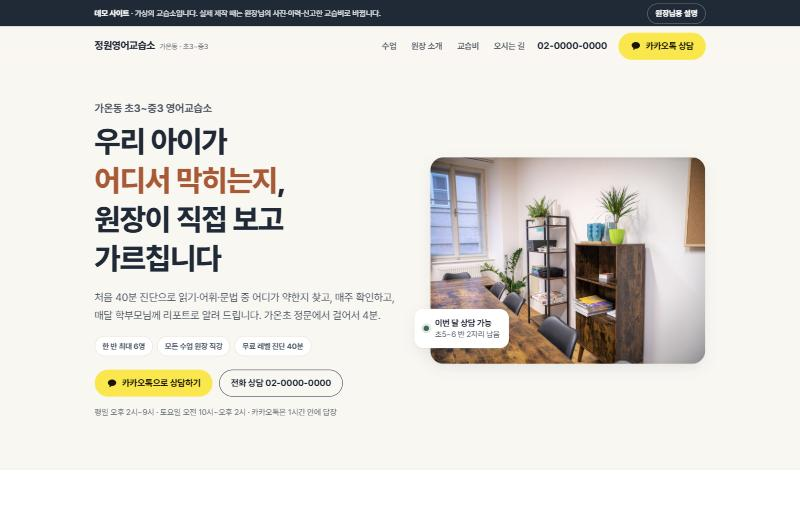
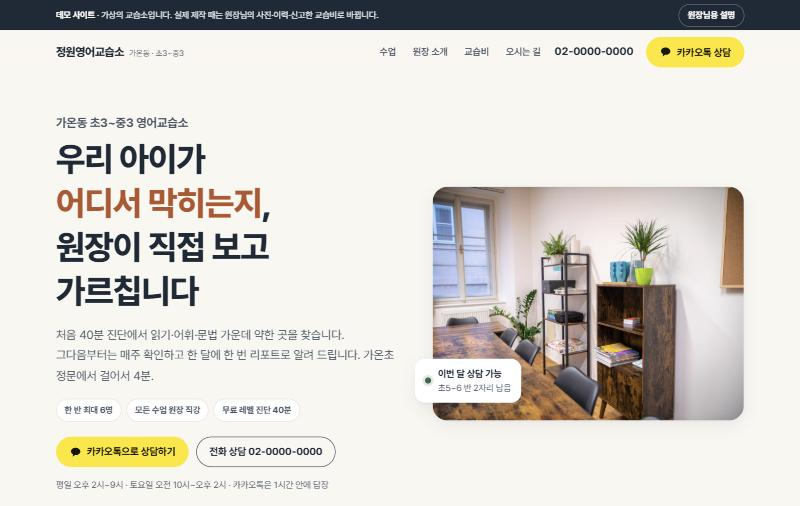
사진 교체(밝은 교실·원서 책장) · 교습소 원칙 세 가지와 맞는 학생 안내 추가 · 월간 리포트 세 줄 구성 · 문구 다듬기 · 화면 갱신
Claude-Session: https://claude.ai/code/session_01XySkmyWqQhuTdWRt7pSBQn

diff --git a/index.html b/index.html
@@ -173,8 +173,25 @@ body.owner .owner-panel{display:block}
 .bar .track{height:10px;background:var(--navy-soft);border-radius:99px;overflow:hidden}
 .bar .fill{display:block;height:100%;background:var(--ink);border-radius:99px}
 .bar .fill.a{background:var(--accent)}
-.report .memo{background:var(--paper);border-radius:var(--r-s);padding:.9rem 1rem;font-size:.93rem;color:var(--ink-2)}
-.report .memo b{color:var(--ink)}
+.report .memo{display:grid;grid-template-columns:auto 1fr;gap:.4rem .9rem;margin:0;background:var(--paper);border-radius:var(--r-s);padding:.9rem 1rem;font-size:.93rem;color:var(--ink-2)}
+.report .memo dt{font-weight:700;color:var(--ink);white-space:nowrap}
+.report .memo dd{margin:0}
+
+/* 지키는 것 · 맞는 학생 */
+.values-list{list-style:none;margin:0;padding:0;display:grid;gap:clamp(14px,2vw,20px);counter-reset:v}
+@media (min-width:860px){.values-list{grid-template-columns:repeat(3,1fr)}}
+.values-list li{background:var(--card);border:1px solid var(--line);border-radius:var(--r);padding:clamp(20px,3vw,26px);counter-increment:v}
+.values-list li::before{content:counter(v);display:grid;place-items:center;width:2rem;height:2rem;border-radius:50%;background:var(--accent-soft);color:var(--accent-strong);font-weight:800;margin-bottom:.7rem}
+.values-list b{display:block;font-size:1.08rem;margin-bottom:.4rem}
+.values-list span{display:block;color:var(--ink-2);font-size:.95rem}
+.values-list .cost{margin-top:.7rem;font-size:.88rem;font-weight:700;color:var(--accent-strong)}
+.fit-grid{display:grid;gap:clamp(14px,2vw,20px);margin-top:clamp(20px,3vw,28px)}
+@media (min-width:860px){.fit-grid{grid-template-columns:1fr 1fr}}
+.fit-box{border-radius:var(--r);padding:clamp(20px,3vw,26px)}
+.fit-box.yes{background:#E3F1EA}
+.fit-box.no{background:var(--paper-2);border:1px solid var(--line)}
+.fit-box h3{font-size:1.05rem;margin-bottom:.6rem}
+.fit-box ul{margin:0;padding-left:1.1rem;display:grid;gap:.35rem;color:var(--ink-2);font-size:.95rem}
 
 /* 공간 */
 .space-grid{display:grid;gap:clamp(12px,2vw,18px)}
@@ -326,6 +343,7 @@ body.owner .owner-off{display:inline-flex;align-items:center}
       <li>반별 요일·시간과 이번 달 모집 현황</li>
       <li>카카오톡 채널 주소, 전화번호, 네이버 플레이스 주소</li>
       <li>자주 받는 질문 5개와 답</li>
+      <li>손해를 보더라도 지키는 원칙 세 가지, 맞는 학생과 맞지 않는 경우 (첫 상담 때 다섯 가지를 여쭙고 정합니다)</li>
     </ol>
     <p>아래 점선으로 표시된 곳이 원장님 자료로 바뀝니다.</p>
   </div>
@@ -348,7 +366,7 @@ body.owner .owner-off{display:inline-flex;align-items:center}
   <div class="wrap">
     <div>
       <h1 id="hero-title"><span class="kicker">가온동 초3~중3 영어교습소</span>우리 아이가 <em>어디서 막히는지</em>,<br>원장이 직접 보고 가르칩니다</h1>
-      <p class="lead">처음 40분 진단으로 읽기·어휘·문법 중 어디가 약한지 찾고, 매주 확인하고, 매달 학부모님께 리포트로 알려 드립니다. 가온초 정문에서 걸어서 4분.</p>
+      <p class="lead">처음 40분 진단에서 읽기·어휘·문법 가운데 약한 곳을 찾습니다. 그다음부터는 매주 확인하고 한 달에 한 번 리포트로 알려 드립니다. 가온초 정문에서 걸어서 4분.</p>
       <ul class="hero-meta" aria-label="교습소 요약">
         <li>한 반 최대 6명</li><li>모든 수업 원장 직강</li><li>무료 레벨 진단 40분</li>
       </ul>
@@ -373,23 +391,23 @@ body.owner .owner-off{display:inline-flex;align-items:center}
   <div class="wrap">
     <div class="sec-head">
       <p class="eyebrow">이렇게 가르칩니다</p>
-      <h2 id="proof-title">진단하고, 매주 확인하고, 매달 알려 드립니다</h2>
+      <h2 id="proof-title">진단부터 월간 리포트까지 원장이 직접 합니다</h2>
     </div>
     <div class="steps">
       <article class="step">
-        <p class="k">STEP 1 · 진단</p>
+        <p class="k">처음 · 진단</p>
         <h3>40분 레벨 진단으로 시작</h3>
-        <p>읽기·어휘·문법 세 영역을 따로 봅니다. 점수 하나가 아니라 어디서 막히는지를 찾습니다.</p>
-        <ul><li>진단 결과지를 상담 때 함께 봅니다</li><li>결과에 맞는 반을 제안하고, 맞는 반이 없으면 솔직하게 말씀드립니다</li></ul>
+        <p>읽기·어휘·문법 세 영역을 따로 봅니다. 점수 하나로 끝내지 않고 어디서 막히는지 찾습니다.</p>
+        <ul><li>진단 결과지를 상담 때 함께 봅니다</li><li>결과에 맞는 반을 제안합니다. 맞는 반이 없으면 그렇다고 말씀드립니다</li></ul>
       </article>
       <article class="step">
-        <p class="k">STEP 2 · 매주 확인</p>
+        <p class="k">매주 · 확인</p>
         <h3>숙제는 원장이 한 장씩 봅니다</h3>
         <p>수업 시작 10분은 단어 확인, 끝 10분은 그날 읽은 글을 소리 내어 읽습니다.</p>
         <ul><li>단어 테스트 기록을 매주 남깁니다</li><li>두 번 연속 못 따라오면 보충 시간을 잡습니다</li></ul>
       </article>
       <article class="step">
-        <p class="k">STEP 3 · 매달 리포트</p>
+        <p class="k">매달 · 리포트</p>
         <h3>한 달에 한 번, 리포트와 10분 통화</h3>
         <p>무엇을 배웠고 무엇이 아직인지, 다음 달에 무엇을 할지 적어 카카오톡으로 보내 드립니다.</p>
         <ul><li>학교 시험 4주 전에는 범위표를 먼저 보내 드립니다</li><li>원하시면 상담 시간을 따로 잡습니다</li></ul>
@@ -412,7 +430,7 @@ body.owner .owner-off{display:inline-flex;align-items:center}
       <p class="eyebrow">원장 소개</p>
       <h2 id="teacher-title">한서진 원장</h2>
       <p class="quote">“아이 이름과 약한 곳을 다 기억할 수 있는 만큼만 받습니다.”</p>
-      <p class="lead">한 반 6명을 넘기지 않는 이유입니다. 진단, 수업, 숙제 확인, 학부모 상담까지 원장이 직접 합니다.</p>
+      <p class="lead">그래서 한 반은 6명까지만 받습니다. 진단과 수업, 숙제 확인, 학부모 상담을 모두 원장이 직접 합니다.</p>
       <div data-owner>
         <span class="tag">③ 원장님 이력</span>
         <ul class="cv">
@@ -420,6 +438,34 @@ body.owner .owner-off{display:inline-flex;align-items:center}
           <li><span class="t">경력</span><span>초·중등 영어 지도 11년 (학원 강사 7년, 교습소 운영 4년)</span></li>
           <li><span class="t">수업</span><span>초등 원서 읽기 · 중등 내신 문법과 서술형</span></li>
         </ul>
+      </div>
+    </div>
+  </div>
+</section>
+
+<section class="values" id="values" aria-labelledby="values-title">
+  <div class="wrap">
+    <div class="sec-head">
+      <p class="eyebrow">교습소가 지키는 것</p>
+      <h2 id="values-title">손해를 보더라도 지키는 원칙 세 가지</h2>
+      <p>아이가 영어 글을 혼자 읽고 자기 생각을 영어로 쓰게 하는 것. 정원영어교습소를 연 이유입니다. 아래 세 가지는 그 일을 하려고 지킵니다.</p>
+    </div>
+    <div data-owner>
+      <span class="tag">⑧ 원장님 원칙 · 맞는 학생</span>
+      <ol class="values-list">
+        <li><b>기억할 수 있는 만큼만 받습니다</b><span>아이 이름과 약한 곳을 모두 기억하려고 한 반은 6명까지만 받습니다.</span><span class="cost">대기 학생이 생겨도 반을 늘리지 않습니다</span></li>
+        <li><b>맞지 않으면 등록을 권하지 않습니다</b><span>진단해 보고 우리 수업이 맞지 않으면 그렇다고 말씀드립니다. 어떤 곳이 맞을지도 함께 고민합니다.</span><span class="cost">상담 한 건을 놓치더라도 지킵니다</span></li>
+        <li><b>있는 그대로 알려 드립니다</b><span>매달 리포트에 잘한 것과 아직 안 되는 것을 같이 적습니다.</span><span class="cost">듣기 불편한 내용이라도 빼지 않습니다</span></li>
+      </ol>
+      <div class="fit-grid">
+        <div class="fit-box yes">
+          <h3>이런 아이에게 맞습니다</h3>
+          <ul><li>단어는 아는데 문장을 읽다가 자주 멈추는 아이</li><li>객관식은 맞는데 서술형에서 점수가 깎이는 아이</li><li>매주 숙제를 해 올 마음이 있는 아이</li></ul>
+        </div>
+        <div class="fit-box no">
+          <h3>이런 경우엔 다른 곳이 나을 수 있습니다</h3>
+          <ul><li>선행 진도를 빠르게 나가고 싶을 때</li><li>원어민 회화가 중심인 수업을 원할 때</li><li>숙제 확인 없이 수업만 원할 때</li></ul>
+        </div>
       </div>
     </div>
   </div>
@@ -480,7 +526,11 @@ body.owner .owner-off{display:inline-flex;align-items:center}
         <div class="bar"><span>문법</span><span class="track"><span class="fill a" style="width:58%"></span></span><span class="num">58%</span></div>
         <div class="bar"><span>서술형</span><span class="track"><span class="fill a" style="width:61%"></span></span><span class="num">61%</span></div>
       </div>
-      <p class="memo"><b>원장 메모</b> · 관계대명사 문장을 쓸 때 주어를 한 번 더 쓰는 실수가 반복됩니다. 12월 첫 2주는 이 부분을 매 수업 3문항씩 따로 연습합니다.</p>
+      <dl class="memo">
+        <dt>이번 달 목표</dt><dd>관계대명사로 두 문장을 한 문장으로 잇기</dd>
+        <dt>지금</dt><dd>관계대명사 문장을 쓸 때 주어를 한 번 더 쓰는 실수가 반복됩니다</dd>
+        <dt>다음 달</dt><dd>12월 첫 2주는 이 부분을 매 수업 3문항씩 따로 연습합니다</dd>
+      </dl>
     </div>
   </div>
 </section>
@@ -490,12 +540,12 @@ body.owner .owner-off{display:inline-flex;align-items:center}
     <div class="sec-head">
       <p class="eyebrow">공부하는 곳</p>
       <h2 id="space-title">조용히 읽고 쓰는 교실</h2>
-      <p>햇빛 드는 2층 교실과 원서 책장. 수업 전후로 남아서 읽고 가도 됩니다.</p>
+      <p>밝은 2층 교실과 원서 책장이 있습니다. 수업 전후로 남아서 읽고 가도 됩니다.</p>
     </div>
     <div class="space-grid" data-owner>
       <span class="tag">④ 교실·책장 사진</span>
-      <figure><img src="https://images.unsplash.com/photo-1635424239131-32dc44986b56?w=1100&q=70&auto=format&fit=crop" srcset="https://images.unsplash.com/photo-1635424239131-32dc44986b56?w=640&q=70&auto=format&fit=crop 640w, https://images.unsplash.com/photo-1635424239131-32dc44986b56?w=1100&q=70&auto=format&fit=crop 1100w" sizes="(min-width: 860px) 56vw, 100vw" width="1100" height="825" loading="lazy" alt="햇빛이 드는 나무 책상 교실"><figcaption>수업 교실</figcaption></figure>
-      <figure><img src="https://images.unsplash.com/photo-1517673132405-a56a62b18caf?w=800&q=70&auto=format&fit=crop" srcset="https://images.unsplash.com/photo-1517673132405-a56a62b18caf?w=480&q=70&auto=format&fit=crop 480w, https://images.unsplash.com/photo-1517673132405-a56a62b18caf?w=800&q=70&auto=format&fit=crop 800w" sizes="(min-width: 860px) 40vw, 100vw" width="800" height="600" loading="lazy" alt="책상 위에 쌓인 책과 공책, 펜"><figcaption>교재와 원서</figcaption></figure>
+      <figure><img src="https://images.unsplash.com/photo-1647342003191-70d033b24485?w=1100&h=825&q=70&auto=format&fit=crop" srcset="https://images.unsplash.com/photo-1647342003191-70d033b24485?w=640&h=480&q=70&auto=format&fit=crop 640w, https://images.unsplash.com/photo-1647342003191-70d033b24485?w=1100&h=825&q=70&auto=format&fit=crop 1100w" sizes="(min-width: 860px) 56vw, 100vw" width="1100" height="825" loading="lazy" alt="흰 책상과 분홍 의자가 놓인 밝은 교실"><figcaption>수업 교실</figcaption></figure>
+      <figure><img src="https://images.unsplash.com/photo-1648905755287-b5c721ab36c9?w=800&h=600&q=70&auto=format&fit=crop" srcset="https://images.unsplash.com/photo-1648905755287-b5c721ab36c9?w=480&h=360&q=70&auto=format&fit=crop 480w, https://images.unsplash.com/photo-1648905755287-b5c721ab36c9?w=800&h=600&q=70&auto=format&fit=crop 800w" sizes="(min-width: 860px) 40vw, 100vw" width="800" height="600" loading="lazy" alt="영어 원서가 꽂힌 나무 책장"><figcaption>원서 책장</figcaption></figure>
     </div>
   </div>
 </section>
@@ -634,7 +684,7 @@ body.owner .owner-off{display:inline-flex;align-items:center}
     <div class="intro">
       <p class="eyebrow">상담 신청</p>
       <h2 id="consult-title">카카오톡이 편하지 않으시면, 연락처만 남겨 주세요</h2>
-      <p class="lead" style="margin-top:1rem">원장이 직접 연락드립니다. 아이 이름은 받지 않습니다 — 학년과 연락처만으로 충분합니다.</p>
+      <p class="lead" style="margin-top:1rem">원장이 직접 연락드립니다. 아이 이름은 받지 않고 학년과 연락처만 받습니다.</p>
     </div>
     <div class="news-box" data-owner>
       <span class="tag">⑦ 소식 (월 1~2회 갱신)</span>
@@ -701,7 +751,7 @@ body.owner .owner-off{display:inline-flex;align-items:center}
       </div>
       <div>
         <p><a href="#privacy" data-demo="개인정보 처리방침 전문 페이지로 연결됩니다">개인정보 처리방침</a></p>
-        <p style="margin-top:.4rem">사진: Unsplash (Timur Shakerzianov, Unseen Studio, 2y.kang, Debby Hudson)</p>
+        <p style="margin-top:.4rem">사진: Unsplash (Timur Shakerzianov, Unseen Studio, SAE SOL, Thomas Bormans)</p>
       </div>
     </div>
     <p class="demo">이 사이트는 홈페이지 제작 시연용 데모입니다. 상호·인물·주소·교습비·신고번호는 실제가 아닙니다. 데모 제작: 더엔에스홀딩스(주) AX 솔루션 사업본부</p>

diff --git a/README.md b/README.md
@@ -8,20 +8,23 @@
 
 <p>
 <img src="docs/screenshots/m1_hero.jpg" width="230" alt="모바일 첫 화면">
+<img src="docs/screenshots/m9_values.jpg" width="230" alt="교습소가 지키는 원칙 세 가지">
 <img src="docs/screenshots/m8_space.jpg" width="230" alt="모바일 교실 사진">
 <img src="docs/screenshots/m7_owner.jpg" width="230" alt="원장님용 설명을 켠 모바일 화면">
 </p>
 <img src="docs/screenshots/d1_hero.jpg" width="720" alt="데스크톱 첫 화면">
 
 ## 담은 것
-- 모바일 우선 한 장 구성: 첫 화면(지역·학년·과목) → 가르치는 방식 → 원장 소개 → 학년별 수업 → 수업 한 주와 월간 리포트 → 교실 → 교습비·모집 현황 → 상담부터 첫 수업까지 → 자주 묻는 질문 → 오시는 길 → 상담 신청
+- 모바일 우선 한 장 구성: 첫 화면(지역·학년·과목) → 가르치는 방식 → 원장 소개 → 교습소가 지키는 원칙과 맞는 학생 → 학년별 수업 → 수업 한 주와 월간 리포트 → 교실 → 교습비·모집 현황 → 상담부터 첫 수업까지 → 자주 묻는 질문 → 오시는 길 → 상담 신청
+- 교습소의 목적과 원칙 세 가지, 이런 아이에게 맞고 이런 경우엔 다른 곳이 나을 수 있다는 안내. 맞는 학생이 찾아오게 하려는 장치입니다. 실제 제작 때는 원장님 인터뷰로 채웁니다
+- 월간 리포트는 이번 달 목표 · 지금 어디쯤 · 다음 달 할 일 세 줄로 씁니다
 - 연락: 카카오톡 상담 · 전화 · 길찾기(모바일 화면 아래 고정)
 - 교습비와 교습소 표시 사항(명칭 · 교습과목 · 신고번호) — 「학원의 설립·운영 및 과외교습에 관한 법률」 제15조 표시 기준
 - 개인정보: 보호자 연락처와 학년만 받고, 수집·이용 안내 후 동의 1개
 - 지어낸 후기 없음 — 네이버 플레이스 방문자 리뷰로 연결
 - 검색 노출 막음(noindex) — 시연용이므로
 
-## 점검 (2026-11-10)
+## 점검 (2026-11-11)
 - 접근성 자동 점검: axe-core 4.10.2, WCAG 2.0·2.1·2.2 A/AA 규칙 — 위반 0건(모바일 390px · 데스크톱 1440px)
 - 레이아웃 흔들림(CLS) 0 · 가로 넘침 없음(390 · 820 · 1440px)
 - 외부 스크립트 0개(글꼴 CSS와 사진만 외부에서 불러옴)
@@ -29,8 +32,8 @@
 ## 사진 (Unsplash License, 무료)
 - Timur Shakerzianov — 나무 책상과 책장이 있는 작은 방
 - Unseen Studio — 나무 책상에서 공책에 글을 쓰는 손
-- 2y.kang — 햇빛 드는 나무 책상 교실
-- Debby Hudson — 쌓인 책과 공책, 펜
+- SAE SOL — 흰 책상과 분홍 의자가 놓인 밝은 교실
+- Thomas Bormans — 영어 원서가 꽂힌 책장
 
 ## 파일
 - `index.html` — 한 장짜리 홈페이지
